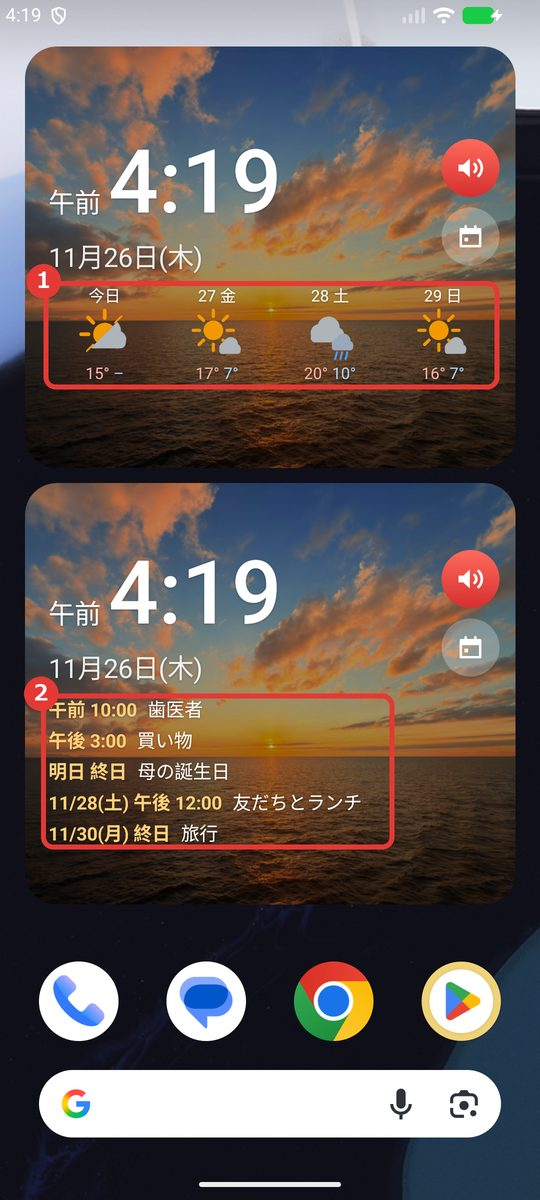
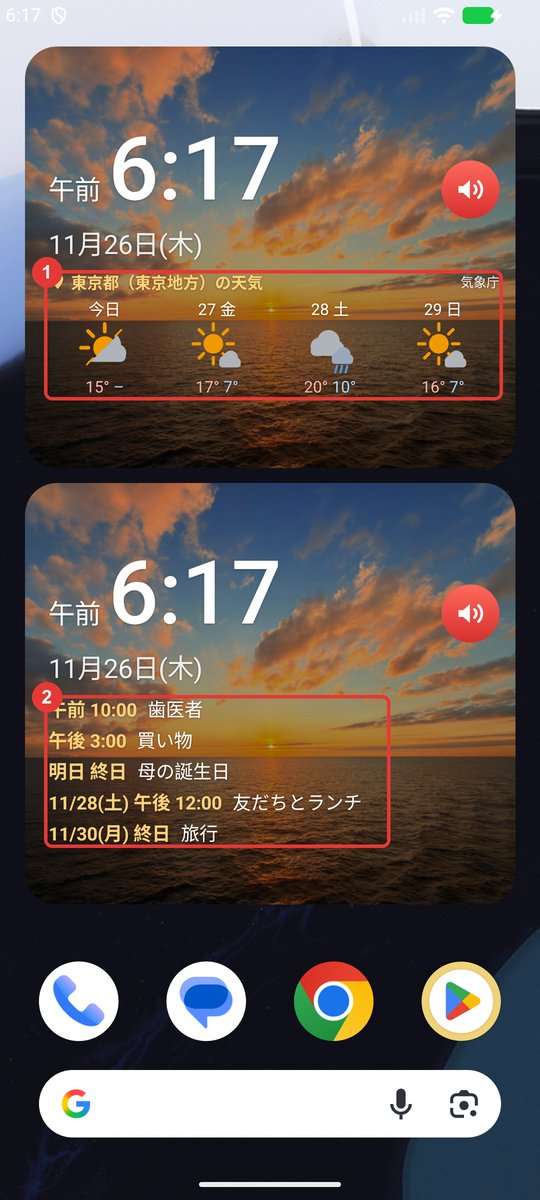
しゃべる時計：予定と天気つきのウィジェットと、どこの天気かの説明
- 使い方 9 に「予定と天気つき」と画像 widget-both.jpg を足した
- 天気の欄・ウィジェットに出る「東京都（東京地方）の天気」の説明を足し、weather-clock.jpg・widget-extra.jpg を撮り直した
- 紹介ページのウィジェットの説明（日本語・英語）を更新

diff --git a/talking-clock/manual.html b/talking-clock/manual.html
@@ -12,7 +12,7 @@
 <p><a href="./">しゃべる時計 の紹介ページへ戻る</a></p>
 <h1>しゃべる時計 の使い方</h1>
 <p>しゃべる時計（Talking Clock）は、時刻を声で知らせる時計のアプリです。決めた時刻のお知らせや、お薬を飲む時間のリマインダーも声で読み上げます。</p>
-<p class="note">この説明は バージョン 0.1.0 の画面に合わせています（2026年11月26日、予定・天気つきのウィジェットを追加）。画面はこれから変わることがあります。画像の赤い枠と番号は、説明の番号と同じところです。</p>
+<p class="note">この説明は バージョン 0.1.0 の画面に合わせています（2026年11月26日、予定と天気つきのウィジェットと、天気の場所の表示を追加）。画面はこれから変わることがあります。画像の赤い枠と番号は、説明の番号と同じところです。</p>
 
 <ol class="toc">
 <li><a href="#start">はじめに</a></li>
@@ -161,7 +161,7 @@
 <ol>
 <li>設定の「天気」のカードの<strong>「時計の画面に天気を出す」</strong>を ON にします（左の画像の 2）</li>
 <li><strong>「天気の場所」</strong>（左の画像の 3）を押し、一覧（真ん中）から地域を選びます</li>
-<li>時計の画面（右の画像の 1 の欄）に、今日から 4 日分の天気・最高と最低の気温・降水確率が出ます</li>
+<li>時計の画面に、今日から 4 日分の天気・最高と最低の気温・降水確率が出ます。欄の上（右の画像の 1）には、どこの天気かが「神奈川県（東部）の天気」のように出ます（府県の名前と、予報と気温に使う地域）</li>
 </ol>
 <ul>
 <li>日本国内だけです。気象庁の予報を使い、5 時・11 時・17 時の発表のあとに新しくなります。位置情報は使いません</li>
@@ -216,16 +216,18 @@
 <li>ウィジェットの置き方は、端末によって少し違います</li>
 </ul>
 
-<h3>予定つき・天気つきのウィジェット</h3>
+<h3>予定つき・天気つき・予定と天気つきのウィジェット</h3>
 <div class="shots">
 <img class="shot" src="images/manual/widget-extra.jpg" width="540" height="1200" loading="lazy" alt="天気つきと予定つきのウィジェット。背景は着せ替えの写真">
+<img class="shot" src="images/manual/widget-both.jpg" width="540" height="1200" loading="lazy" alt="予定と天気つきのウィジェット。上から、どこの天気か・天気・予定">
 </div>
-<p>ウィジェットの一覧には、「しゃべる時計」のほかに「しゃべる時計（天気）」と「しゃべる時計（予定）」があります。端末の言語が英語のときは「Talking Clock (weather)」「Talking Clock (events)」です。</p>
+<p>ウィジェットの一覧には、「しゃべる時計」のほかに「しゃべる時計（天気）」「しゃべる時計（予定）」「しゃべる時計（予定と天気）」があります。端末の言語が英語のときは「Talking Clock (weather)」「Talking Clock (events)」「Talking Clock (events &amp; weather)」です。</p>
 <ul>
-<li>天気つき（画像の 1）は、今日から 4 日分の天気と最高・最低の気温を出します。場所は設定の「天気の場所」です（日本国内のみ、気象庁の予報）</li>
-<li>予定つき（画像の 2）は、Google カレンダーのまだ終わっていない予定を、近い順に出します。明日の予定は「明日」、その先は日付が付きます。大きくすると、たくさん出ます（5 件まで）</li>
+<li>天気つき（左の画像の 1）は、今日から 4 日分の天気と最高・最低の気温を出します。場所は設定の「天気の場所」です（日本国内のみ、気象庁の予報）。天気の上に、どこの天気かが「東京都（東京地方）の天気」のように出ます</li>
+<li>予定つき（左の画像の 2）は、Google カレンダーのまだ終わっていない予定を、近い順に出します。明日の予定は「明日」、その先は日付が付きます。大きくすると、たくさん出ます（5 件まで）</li>
+<li>予定と天気つき（右の画像）は、時刻の下に、どこの天気か（1）・天気（2）・予定（3）を出します。はじめは 4×4 マスで、高さに入るだけ予定が出ます（5 件まで）</li>
 <li>予定と天気は、30 分ごとに読み直します。予定が終わると、次の予定に変わります</li>
-<li>予定つきは、設定で Google カレンダーをつないでいると使えます。つないでいないときは、その案内が出ます</li>
+<li>予定つき・予定と天気つきの予定は、設定で Google カレンダーをつないでいると出ます。つないでいないときは、その案内が出ます</li>
 </ul>
 
 <h3>ウィジェットの背景</h3>

diff --git a/talking-clock/index.html b/talking-clock/index.html
@@ -31,7 +31,7 @@
 <li><strong>天気：</strong>4 日分の天気・気温・降水確率を時計の画面に出せます（日本国内のみ）。天気と今日の予定の欄は、場所と大きさを自由に変えられます</li>
 <li><strong>着せ替え：</strong>森・海・夜空などの風景、猫・犬・ウサギなどのかわいい動物まで、36 カテゴリーの写真の着せ替え。自分の写真も背景にできます</li>
 <li><strong>文字盤：</strong>細い・太い・明朝・7 セグメント・針の時計など 7 種類から選べ、時刻の大きさも変えられます</li>
-<li><strong>ウィジェット：</strong>ホーム画面に時計を置き、ボタンを押すと時刻を声で読みます。次の予定つき・天気つきもあり、背景は着せ替えの写真に合わせます</li>
+<li><strong>ウィジェット：</strong>ホーム画面に時計を置き、ボタンを押すと時刻を声で読みます。次の予定つき・天気つき・予定と天気の両方つきもあり、背景は着せ替えの写真に合わせます</li>
 <li>縦・横の画面、12 言語に対応</li>
 </ul>
 
@@ -68,7 +68,7 @@
 <li><strong>Weather:</strong> a 4-day forecast on the clock (Japan only). Move and resize the weather and events panels as you like</li>
 <li><strong>Themes:</strong> photo themes in 36 categories, from forests, oceans and night skies to cats, dogs and rabbits. You can also use your own photo</li>
 <li><strong>Clock faces:</strong> 7 faces including thin, bold, serif, 7-segment and analog, and an adjustable clock size</li>
-<li><strong>Widgets:</strong> put the clock on your home screen and tap to hear the time, with your next events or the weather, on your theme photo</li>
+<li><strong>Widgets:</strong> put the clock on your home screen and tap to hear the time, with your next events, the weather, or both, on your theme photo</li>
 <li>Portrait and landscape, 12 languages</li>
 </ul>
 
